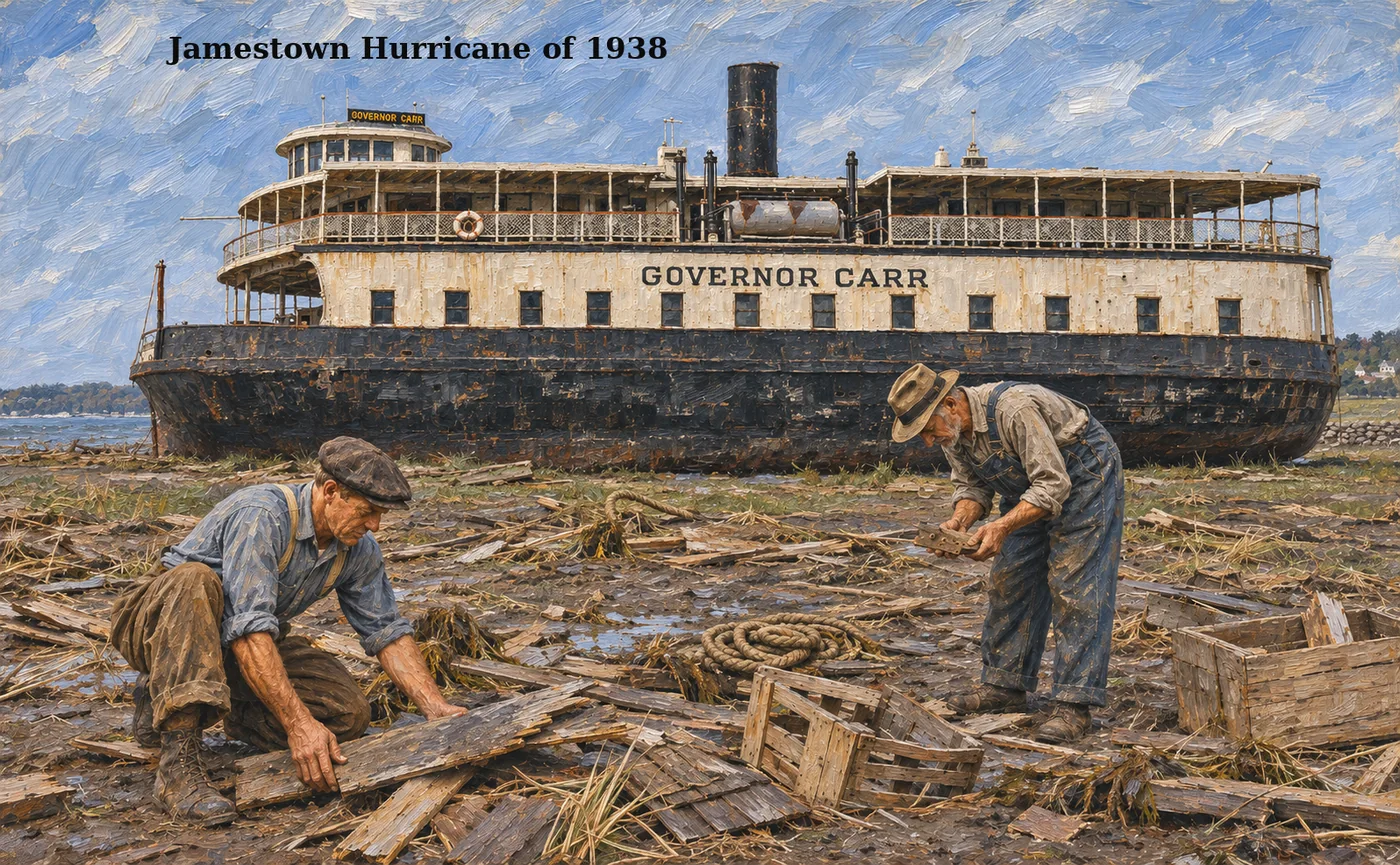
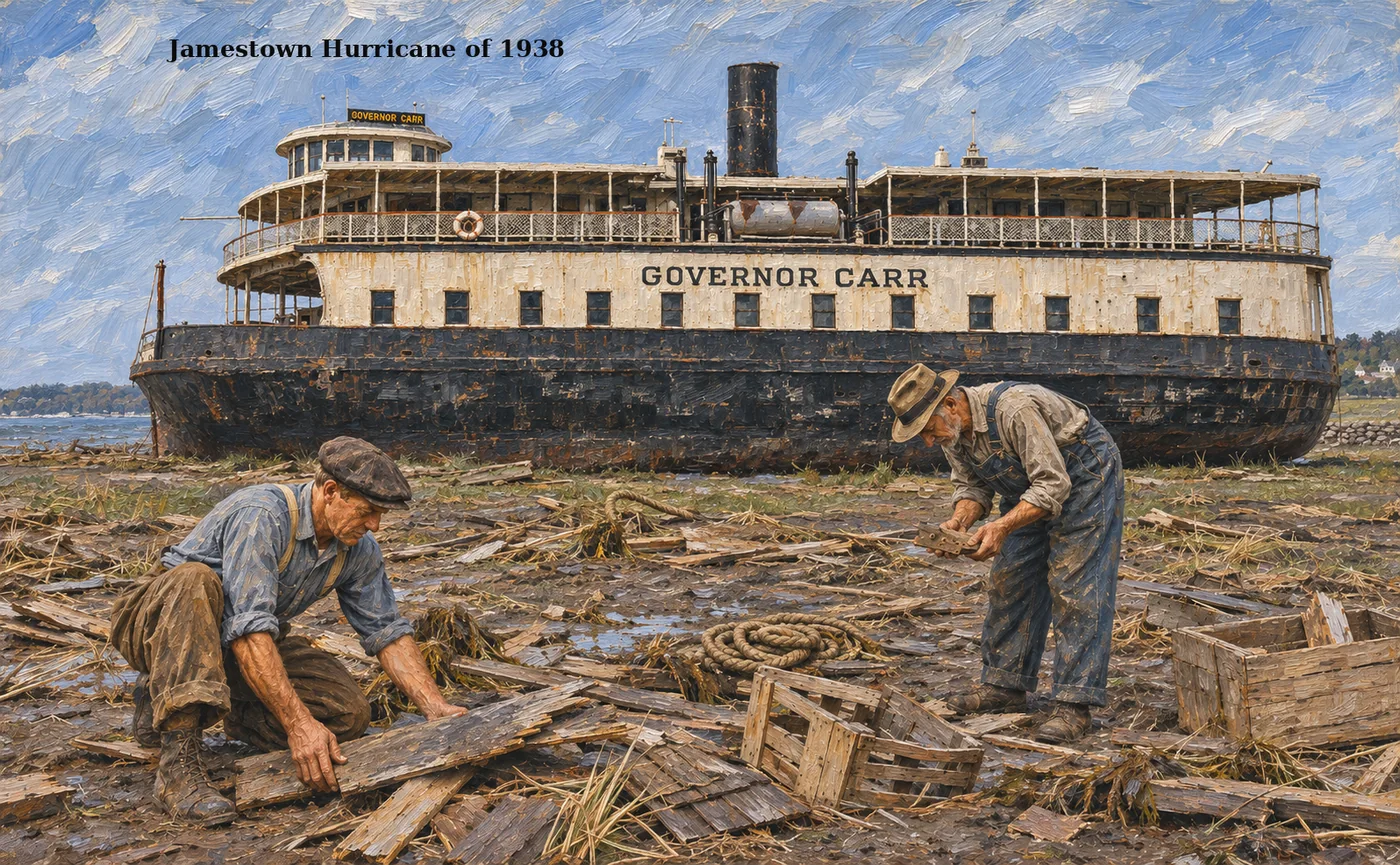
Hurricane label smaller and inset
Claude-Session: https://claude.ai/code/session_01Rvhfw8tap8tk6DKU34sk3v

Changed region(s): [[0.1229, 0.0312, 0.4914, 0.0936]]

diff --git a/index.html b/index.html
@@ -3116,7 +3116,7 @@ html body #coverSlot .cvr button.cvbrk .cvbrk-t{max-width:52%!important}
 </style>
 <script id="artShowJs">(()=>{
 /* Art area: the box beside the top story shows the owner's best paintings */
-const ART=[['img/story/fort-dumpling-1200.webp','50%','','fit'],['img/story/governor-carr-1938-1200.webp','50%',''],['img/story/jamestown-resort-area-1200.webp','50%',''],['img/story/santa-arrives-coastal-queen.jpg','50%','','','2026-12-05'],['img/story/town-tree-raising.jpg','50%','','','2026-12-05'],['img/story/jamestown-1900-1200.webp','50%',''],['img/story/palace-theatre-1200.webp','50%',''],['img/story/jamestown-garage-1200.webp','50%',''],['img/story/gardner-house-1920s-1200.webp','50%',''],['img/story/bay-view-hotel-1200.webp','50%',''],['img/scenes/36-sunset-terrace-1200.webp','50%','','fit']];
+const ART=[['img/story/fort-dumpling-1200.webp','50%','','fit'],['img/story/governor-carr-1938-1200.webp?v=2','50%',''],['img/story/jamestown-resort-area-1200.webp','50%',''],['img/story/santa-arrives-coastal-queen.jpg','50%','','','2026-12-05'],['img/story/town-tree-raising.jpg','50%','','','2026-12-05'],['img/story/jamestown-1900-1200.webp','50%',''],['img/story/palace-theatre-1200.webp','50%',''],['img/story/jamestown-garage-1200.webp','50%',''],['img/story/gardner-house-1920s-1200.webp','50%',''],['img/story/bay-view-hotel-1200.webp','50%',''],['img/scenes/36-sunset-terrace-1200.webp','50%','','fit']];
 /* heavy rotation: East Ferry shows every third picture */{const EF=['img/story/east-ferry-1200.webp','50%',''];const L=ART.splice(0);L.forEach((x,n)=>{if(n%3===0)ART.push(EF);ART.push(x)})}
 {const td=new Date().toLocaleDateString('en-CA',{timeZone:'America/New_York'});for(let n=ART.length-1;n>=0;n--)if(ART[n][4]&&td>ART[n][4])ART.splice(n,1)}
 const go=()=>{const old=document.querySelector('#coverSlot .cimg:not(.artBox)');if(!old)return;const box=document.createElement('div');box.className='cimg artBox';box.style.cssText='position:relative;overflow:hidden';old.replaceWith(box);
